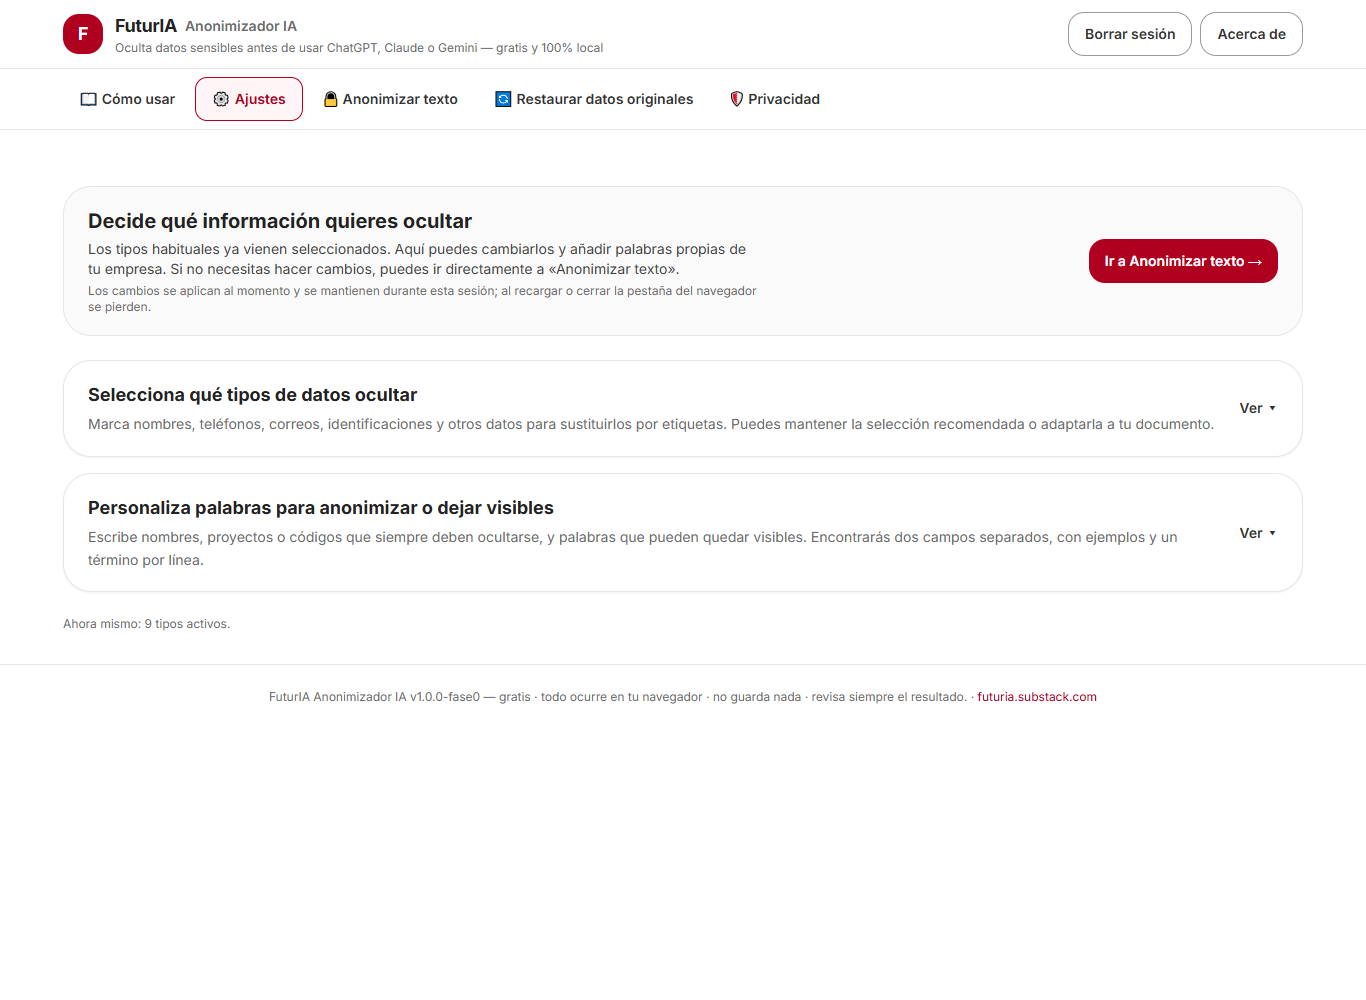
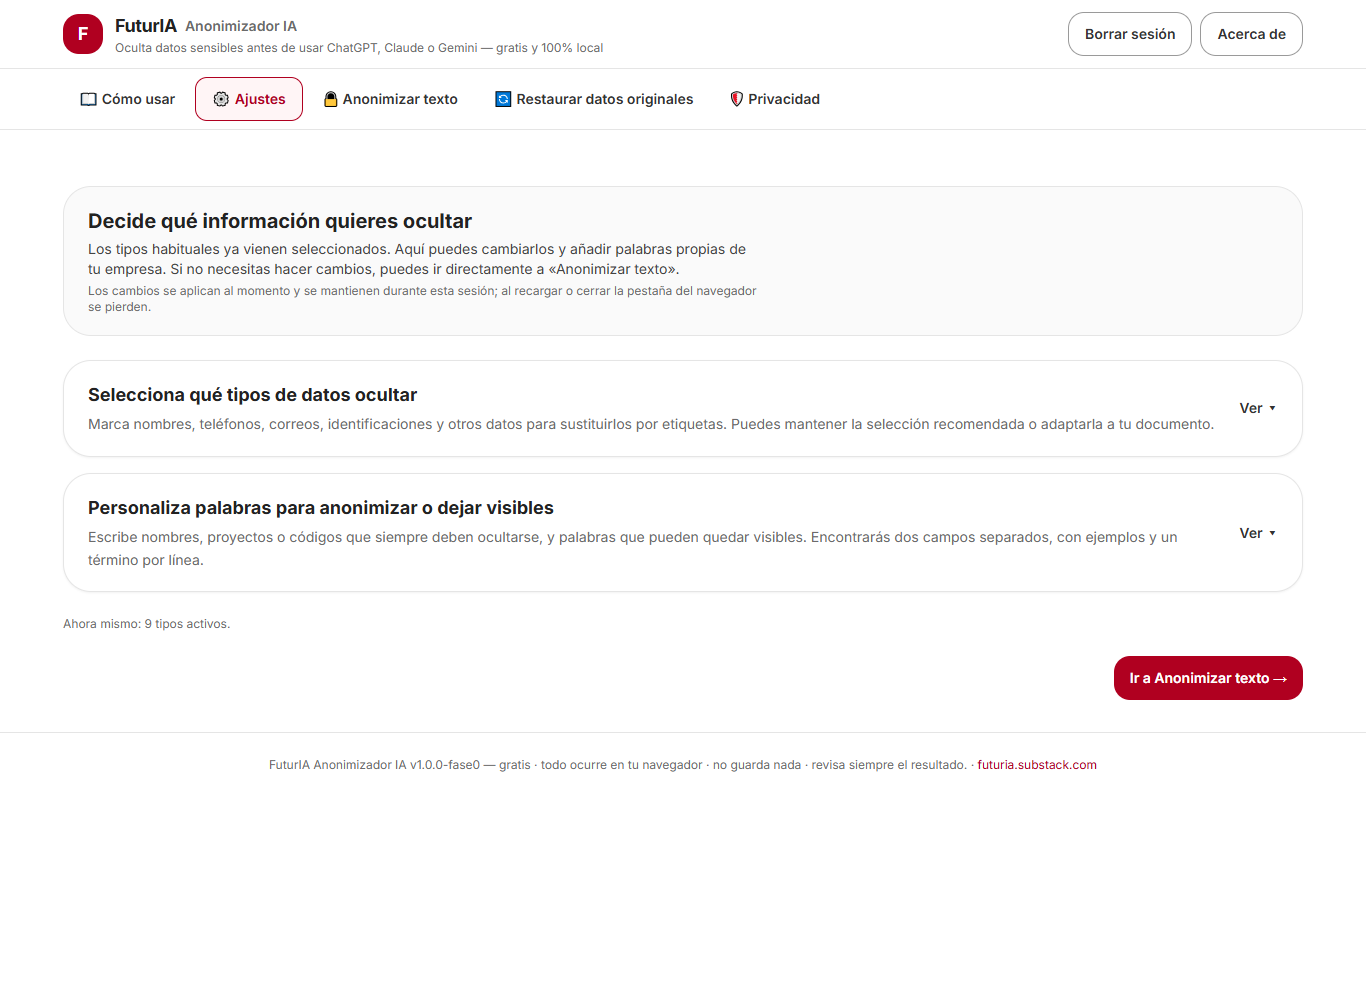
Matriz de selección con descripciones, acciones al final derecha y botón Anonimizar documento

Changed region(s): [[0.2152, 0.651, 0.9531, 0.713], [0.2152, 0.744, 0.7994, 0.775], [0.7994, 0.217, 0.9531, 0.31]]

diff --git a/index.html b/index.html
@@ -1273,7 +1273,7 @@ function HowToTab({ onStart }) {
     { n: '2', icon: '⚙', title: 'Revisa los Ajustes (opcional)',
       desc: 'En la pestaña «Ajustes», abre «Selecciona qué tipos de datos ocultar». Lo habitual ya viene marcado: personas, identificaciones de toda Hispanoamérica, teléfonos, correos, cuentas, claves y fecha de nacimiento. En «Personaliza palabras para anonimizar o dejar visibles» puedes añadir proyectos o clientes que siempre deban ocultarse, y palabras que pueden quedar visibles. Se hace una vez por sesión.',
       tip: 'Montos, direcciones, empresas y fechas se detectan por aproximación: si los activas, revisa el resultado con más cuidado.' },
-    { n: '3', icon: '🔒', title: 'Pulsa «Ocultar datos sensibles» y revisa',
+    { n: '3', icon: '🔒', title: 'Pulsa «Anonimizar documento» y revisa',
       desc: 'Cada dato se cambia por una etiqueta como [PERSONA_1] o [EMAIL_1]; la misma persona recibe siempre la misma etiqueta. El aviso de color te dice si queda algo por ocultar. Lee el resultado, marca «Revisé el texto…» y se activan Copiar y Descargar.',
       tip: 'Toca una etiqueta para ver el dato original o dejarlo visible si no identifica a nadie.' },
     { n: '4', icon: '🔑', title: 'Guarda la llave',
@@ -1354,7 +1354,6 @@ function HowToTab({ onStart }) {
           ))}
         </ol>
       </CollapsibleSection>
-      {onStart ? <div><AppButton onClick={onStart}>Empezar ahora →</AppButton></div> : null}
 
       <CollapsibleSection open={showCats} onToggle={() => setShowCats(v => !v)} id="howto-cats" title="Qué tipos de datos detecta" subtitle={CATS.length + ' tipos. Los marcados con «Activo» vienen seleccionados al empezar.'}>
         <div className="grid gap-3 md:grid-cols-2">
@@ -1389,6 +1388,7 @@ function HowToTab({ onStart }) {
           ))}
         </dl>
       </CollapsibleSection>
+      {onStart ? <div data-howto-next className="flex justify-end"><AppButton onClick={onStart}>Empezar ahora →</AppButton></div> : null}
     </div>
   );
 }
@@ -2722,13 +2722,31 @@ function GrowingTextarea({ value, onChange, minRows = 3, maxRows = 14, className
   return <textarea ref={ref} rows={minRows} value={value} onChange={onChange} className={className} {...rest} />;
 }
 
+// Ayuda de presentación de la matriz; no cambia los patrones de detección.
+const TYPE_HELP = {
+  person: { description: 'Nombres y apellidos reconocidos por el contexto del documento.', example: 'Cliente: María García' },
+  credentials: { description: 'Contraseñas, claves de acceso y claves para conectar servicios.', example: 'password: CLAVE_FICTICIA' },
+  url: { description: 'Enlaces que pueden revelar una empresa, carpeta o documento.', example: 'https://ejemplo.com/contrato' },
+  email: { description: 'Direcciones de correo de personas o de la empresa.', example: 'maria@ejemplo.com' },
+  financial: { description: 'Números de cuenta, tarjetas y referencias bancarias.', example: 'Cuenta: 1234567890' },
+  ip: { description: 'Direcciones que identifican equipos o conexiones de red.', example: '192.168.1.105' },
+  fiscal: { description: 'Documentos de identidad y números de identificación fiscal.', example: 'Cédula, DNI, RUT, RFC, NIT, RUC…' },
+  phone: { description: 'Teléfonos fijos, celulares y números con prefijo internacional.', example: '+52 55 1234 5678' },
+  money: { description: 'Importes acompañados de una moneda. Revisa las coincidencias.', example: 'USD 45,000.00' },
+  birthdate: { description: 'Fechas de nacimiento y edades indicadas en el texto.', example: 'Edad: 38 años' },
+  address: { description: 'Calles, avenidas y otras referencias postales. Detección aproximada.', example: 'Av. República 123' },
+  company: { description: 'Razones sociales con terminaciones como S.A. o Ltda. Detección aproximada.', example: 'Empresa Ejemplo S.A.' },
+  date: { description: 'Fechas de contratos, reuniones u otros hechos. Revisa las coincidencias.', example: '15 de marzo de 2024' },
+};
+
 function CategoryPanel({ cats, onToggle, onPreset, customTerms, onCustomTerms, whitelist, onWhitelist }) {
   const [showTypes, setShowTypes] = useState(false);
   const [showWords, setShowWords] = useState(false);
   const activeIds = cats.filter(c => c.on).map(c => c.id).sort().join(',');
   const activePreset = PRESETS.find(p => [...new Set([...p.cats, ...cats.filter(c => c.alwaysOn).map(c => c.id)])].sort().join(',') === activeIds);
   const fieldClass = "w-full rounded-2xl border border-[#9a9a9a] bg-white p-3 font-mono text-base sm:text-sm text-[#222222] outline-none transition focus:border-[#b00020] focus:ring-2 focus:ring-[#b00020] resize-none";
-  const ordered = [...cats.filter(c => c.on), ...cats.filter(c => !c.on)];
+  // Orden estable: marcar una casilla no mueve su fila ni el foco.
+  const ordered = cats;
   return (
     <div className="space-y-4">
       <CollapsibleSection open={showTypes} onToggle={() => setShowTypes(v => !v)} id="settings-types" titleId="cats-title" title="Selecciona qué tipos de datos ocultar" subtitle="Marca nombres, teléfonos, correos, identificaciones y otros datos para sustituirlos por etiquetas. Puedes mantener la selección recomendada o adaptarla a tu documento.">
@@ -2752,19 +2770,38 @@ function CategoryPanel({ cats, onToggle, onPreset, customTerms, onCustomTerms, w
             {!activePreset ? <span className="text-xs text-[#6b6b6b]">Personalizado</span> : null}
           </div>
         </div>
-        <div id="cats-body" className="mt-4 flex flex-wrap gap-2" role="group" aria-label="Tipos de datos">
-          {ordered.map(c => (
-            <button key={c.id} type="button" onClick={() => onToggle(c.id)} aria-pressed={c.on} disabled={c.alwaysOn} aria-label={c.label}
-              title={c.alwaysOn ? 'Siempre activo. Las claves nunca deben salir.' : c.label + ' — ej.: ' + c.ex}
-              className={cn('inline-flex min-h-[36px] items-center gap-2 rounded-full border px-3 py-1.5 text-sm font-medium transition focus:outline-none focus-visible:ring-2 focus-visible:ring-[#b00020]',
-                c.on ? 'border-transparent text-[#222222]' : 'border-[#d4d4d4] bg-white text-[#555555] hover:border-[#6b6b6b]',
-                c.alwaysOn && 'cursor-default')}
-              style={c.on ? { backgroundColor: c.bg, boxShadow: 'inset 0 0 0 1px ' + c.border } : undefined}>
-              <span aria-hidden="true" className="inline-flex h-4 w-4 items-center justify-center rounded border text-[10px] font-bold" style={c.on ? { borderColor: c.color, backgroundColor: c.color, color: '#fff' } : { borderColor: '#9a9a9a', backgroundColor: '#fff' }}>{c.on ? '✓' : ''}</span>
-              <span>{c.short || c.label}</span>
-              {c.alwaysOn ? <span className="text-xs text-[#6b6b6b]">· siempre</span> : null}
-            </button>
-          ))}
+        <p className="mt-3 text-xs text-[#6b6b6b] sm:hidden">Desliza la tabla hacia los lados para ver la descripción y el ejemplo.</p>
+        <div className="mt-4 max-w-full overflow-x-auto rounded-2xl border border-[#e5e5e5]" tabIndex={0} role="region" aria-label="Tabla de tipos de datos; desplazable horizontalmente">
+          <table className="w-full min-w-[680px] table-fixed text-sm">
+            <caption className="sr-only">Tipos de datos que se anonimizarán. Marca o desmarca cada casilla; las claves permanecen siempre activas.</caption>
+            <colgroup><col style={{ width: '72px' }} /><col style={{ width: '23%' }} /><col style={{ width: '43%' }} /><col /></colgroup>
+            <thead className="border-b border-[#d4d4d4] bg-[#f3f4f6] text-[#333333]">
+              <tr><th scope="col" className="px-2 py-3 text-center font-semibold">Ocultar</th><th scope="col" className="px-3 py-3 text-left font-semibold">Tipo de dato</th><th scope="col" className="px-3 py-3 text-left font-semibold">Qué se oculta</th><th scope="col" className="px-3 py-3 text-left font-semibold">Ejemplo</th></tr>
+            </thead>
+            <tbody id="cats-body">
+              {ordered.map(c => {
+                const help = TYPE_HELP[c.id];
+                return (
+                  <tr key={c.id} className={cn('border-b border-[#e5e5e5] last:border-b-0', c.on ? 'bg-[#fafafa]' : 'bg-white')}>
+                    <td className="px-2 py-2 text-center align-top">
+                      <label className="inline-flex min-h-[44px] min-w-[44px] items-center justify-center" htmlFor={'type-' + c.id}>
+                        <span className="sr-only">{c.short || c.label}</span>
+                        <input id={'type-' + c.id} type="checkbox" checked={c.on} disabled={c.alwaysOn} onChange={() => onToggle(c.id)}
+                          aria-describedby={'type-desc-' + c.id + (c.alwaysOn ? ' type-always-' + c.id : '')}
+                          className="h-5 w-5 accent-[#222222] focus-visible:outline focus-visible:outline-2 focus-visible:outline-offset-2 focus-visible:outline-[#b00020] disabled:cursor-not-allowed" />
+                      </label>
+                    </td>
+                    <th scope="row" className="px-3 py-4 text-left align-top font-semibold text-[#222222]">
+                      <label htmlFor={'type-' + c.id} className={c.alwaysOn ? 'cursor-default' : 'cursor-pointer'}>{c.short || c.label}</label>
+                      {c.alwaysOn ? <span id={'type-always-' + c.id} className="mt-1 block text-xs font-normal text-[#555555]">Siempre activo</span> : null}
+                    </th>
+                    <td data-type-description id={'type-desc-' + c.id} className="px-3 py-4 align-top leading-relaxed text-[#444444]">{help.description}</td>
+                    <td data-type-example className="break-words px-3 py-4 align-top text-xs leading-relaxed text-[#555555]">{help.example}</td>
+                  </tr>
+                );
+              })}
+            </tbody>
+          </table>
         </div>
       </div>
       </CollapsibleSection>
@@ -2828,12 +2865,12 @@ function SettingsTab({ settings, onDone }) {
             <p className="mt-1 text-sm text-[#444444]">Los tipos habituales ya vienen seleccionados. Aquí puedes cambiarlos y añadir palabras propias de tu empresa. Si no necesitas hacer cambios, puedes ir directamente a «Anonimizar texto».</p>
             <p className="mt-1 text-xs text-[#6b6b6b]">Los cambios se aplican al momento y se mantienen durante esta sesión; al recargar o cerrar la pestaña del navegador se pierden.</p>
           </div>
-          {onDone ? <AppButton onClick={onDone}>Ir a Anonimizar texto →</AppButton> : null}
         </div>
       </section>
       <CategoryPanel cats={settings.cats} onToggle={settings.toggleCat} onPreset={p => { settings.applyPreset(p); announce('Selección aplicada: ' + p.label); }}
         customTerms={settings.customTerms} onCustomTerms={settings.updateCustomTerms} whitelist={settings.whitelist} onWhitelist={settings.updateWhitelist} />
       <p className="text-xs text-[#6b6b6b]" data-settings-counts>Ahora mismo: {active} {active === 1 ? 'tipo activo' : 'tipos activos'}{hiddenWords ? ', ' + hiddenWords + (hiddenWords === 1 ? ' palabra que siempre se oculta' : ' palabras que siempre se ocultan') : ''}{visibleWords ? ', ' + visibleWords + (visibleWords === 1 ? ' palabra que queda visible' : ' palabras que quedan visibles') : ''}.</p>
+      {onDone ? <div data-settings-next className="flex justify-end"><AppButton onClick={onDone}>Ir a Anonimizar texto →</AppButton></div> : null}
     </div>
   );
 }
@@ -2920,13 +2957,13 @@ function WorkTab({ setLastResult, lastResult, settings, onOpenSettings }) {
 
   const excludeFromResult = (rep) => {
     settings.addWhitelistTerm(rep.original);
-    invalidate(); announce('«' + rep.original + '» quedará visible. Vuelve a pulsar «Ocultar datos sensibles».');
+    invalidate(); announce('«' + rep.original + '» quedará visible. Vuelve a pulsar «Anonimizar documento».');
   };
   const addExtraTerm = () => {
     const t = extraTerm.trim();
     if (t.length < 2) return;
     settings.addCustomTerm(t); setExtraTerm('');
-    invalidate(); announce('«' + t + '» se ocultará siempre. Vuelve a pulsar «Ocultar datos sensibles».');
+    invalidate(); announce('«' + t + '» se ocultará siempre. Vuelve a pulsar «Anonimizar documento».');
   };
 
   const riskData = useMemo(() => result ? computeResidualRisk(result.out, activeIds, { whitelist }) : null, [result, activeIds.join(','), whitelist]);
@@ -3029,7 +3066,7 @@ function WorkTab({ setLastResult, lastResult, settings, onOpenSettings }) {
           </span>
           <span className="flex items-center gap-3 flex-wrap">
             {!inputText.trim() ? <span className="text-xs text-[#6b6b6b]">Pega un texto o <button type="button" onClick={() => setShowTemplates(true)} className="font-semibold text-[#222222] underline">elige un ejemplo</button> para activar el botón →</span> : null}
-            <AppButton onClick={anonymize} disabled={!inputText.trim() || (activeCats.length === 0 && !hasCustomTerms) || uploading}>Ocultar datos sensibles</AppButton>
+            <AppButton onClick={anonymize} disabled={!inputText.trim() || (activeCats.length === 0 && !hasCustomTerms) || uploading}>Anonimizar documento</AppButton>
           </span>
         </div>
       </section>

diff --git a/README.md b/README.md
@@ -1,6 +1,6 @@
 # Anonimizador IA — FuturIA (App 7)
 
-> **Fase 0 y organización aprobada (2026-10-21): 235/235 sin fallos.** Herramienta **gratuita**, para equipos de empresa, genérica para toda Hispanoamérica. Una sola vista de trabajo (texto o documento), misma etiqueta para la misma entidad, nombres en MAYÚSCULAS, identificadores de 19 países con dígito verificador, teléfonos y monedas locales, fecha de nacimiento, lista blanca, recuperación tolerante, llave de recuperación descargable, diálogos propios, popovers accesibles y visor legible en móvil. No se realizó deploy público en esta tanda.
+> **Fase 0 y organización aprobada (2026-10-21): 245/245 sin fallos.** Herramienta **gratuita**, para equipos de empresa, genérica para toda Hispanoamérica. Una sola vista de trabajo (texto o documento), misma etiqueta para la misma entidad, nombres en MAYÚSCULAS, identificadores de 19 países con dígito verificador, teléfonos y monedas locales, fecha de nacimiento, lista blanca, recuperación tolerante, llave de recuperación descargable, diálogos propios, popovers accesibles y visor legible en móvil. No se realizó deploy público en esta tanda.
 
 Oculta datos sensibles de la información de tu empresa **antes** de pegarla en ChatGPT,
 Claude, Gemini o cualquier otro modelo. El reemplazo es reversible: cada dato
@@ -19,6 +19,14 @@ app (React, Babel, Tailwind y la fuente desde CDN), así que sin conexión no ar
 - **Anonimizar texto** conserva una sola entrada a los ejemplos: «Cargar un ejemplo», que abre el selector. Tipos y palabras propias permanecen en Ajustes; el resultado ofrece el atajo «Ocultar también».
 - **Restaurar datos originales** y **Privacidad** completan la navegación. Cambiar Ajustes invalida el resultado anterior y conserva el texto.
 - La nueva sonda pruebas/sonda-organizacion.mjs prueba plegado, orden, título literal, campos, conservación y foco al escribir, selector de ejemplos y ausencia de desborde a 360 px. Capturas de los estados en pruebas/capturas-organizacion/.
+
+### Ajuste posterior: acciones al final y matriz de selección
+
+«Empezar ahora» queda después del glosario, al final de Cómo usar, alineado a la derecha. «Ir a Anonimizar texto» queda al final de Ajustes, después de palabras personalizadas, también a la derecha y visible con los bloques plegados.
+
+Los tipos se seleccionan en una tabla de cuatro columnas: **Ocultar** (casilla), **Tipo de dato**, **Qué se oculta** y **Ejemplo**. Una fila por tipo, orden estable, claves siempre activas. Sustituye a las píldoras de categorías por petición explícita de Sergio. En móvil solo la tabla se desplaza horizontalmente; la página no desborda.
+
+El botón que ejecuta la transformación se llama **«Anonimizar documento»**, tanto para texto pegado como para archivos subidos. Se habilita cuando hay contenido válido y termina la carga. El paso a paso y las sondas usan el mismo nombre. «Personaliza palabras para anonimizar o dejar visibles» no cambió. El nombre de la pestaña «Cómo usar» sigue pendiente de elección; no se renombró.
 
 ## Qué contiene
 
@@ -83,10 +91,10 @@ node pruebas/sonda-app.mjs              # 30 · regresión general
 node pruebas/sonda-fase0.mjs            # 41 · Fase 0: flujo, diálogos, popovers, móvil
 node pruebas/sonda-correccion.mjs       # 13 · saltos de línea y límites de carga
 node pruebas/sonda-interfaz.mjs         # 24 · tamaños y ventana emergente
-node pruebas/sonda-organizacion.mjs     # 16 · plegables y organización aprobada
+node pruebas/sonda-organizacion.mjs     # 26 · plegables y organización aprobada
 ```
 
-**235 comprobaciones verificadas el 2026-10-21**, más un PDF de 12 páginas, contra el motor publicado y la app realmente servida por CDP: dependencias
+**245 comprobaciones verificadas el 2026-10-21**, más un PDF de 12 páginas, contra el motor publicado y la app realmente servida por CDP: dependencias
 pinneadas, Tailwind efectivamente aplicado, el flujo completo de anonimización,
 que ningún dato crudo quede en el bloque de salida, que la tabla de equivalencias
 sí conserve los originales (reversibilidad), que no haya peticiones a ningún
